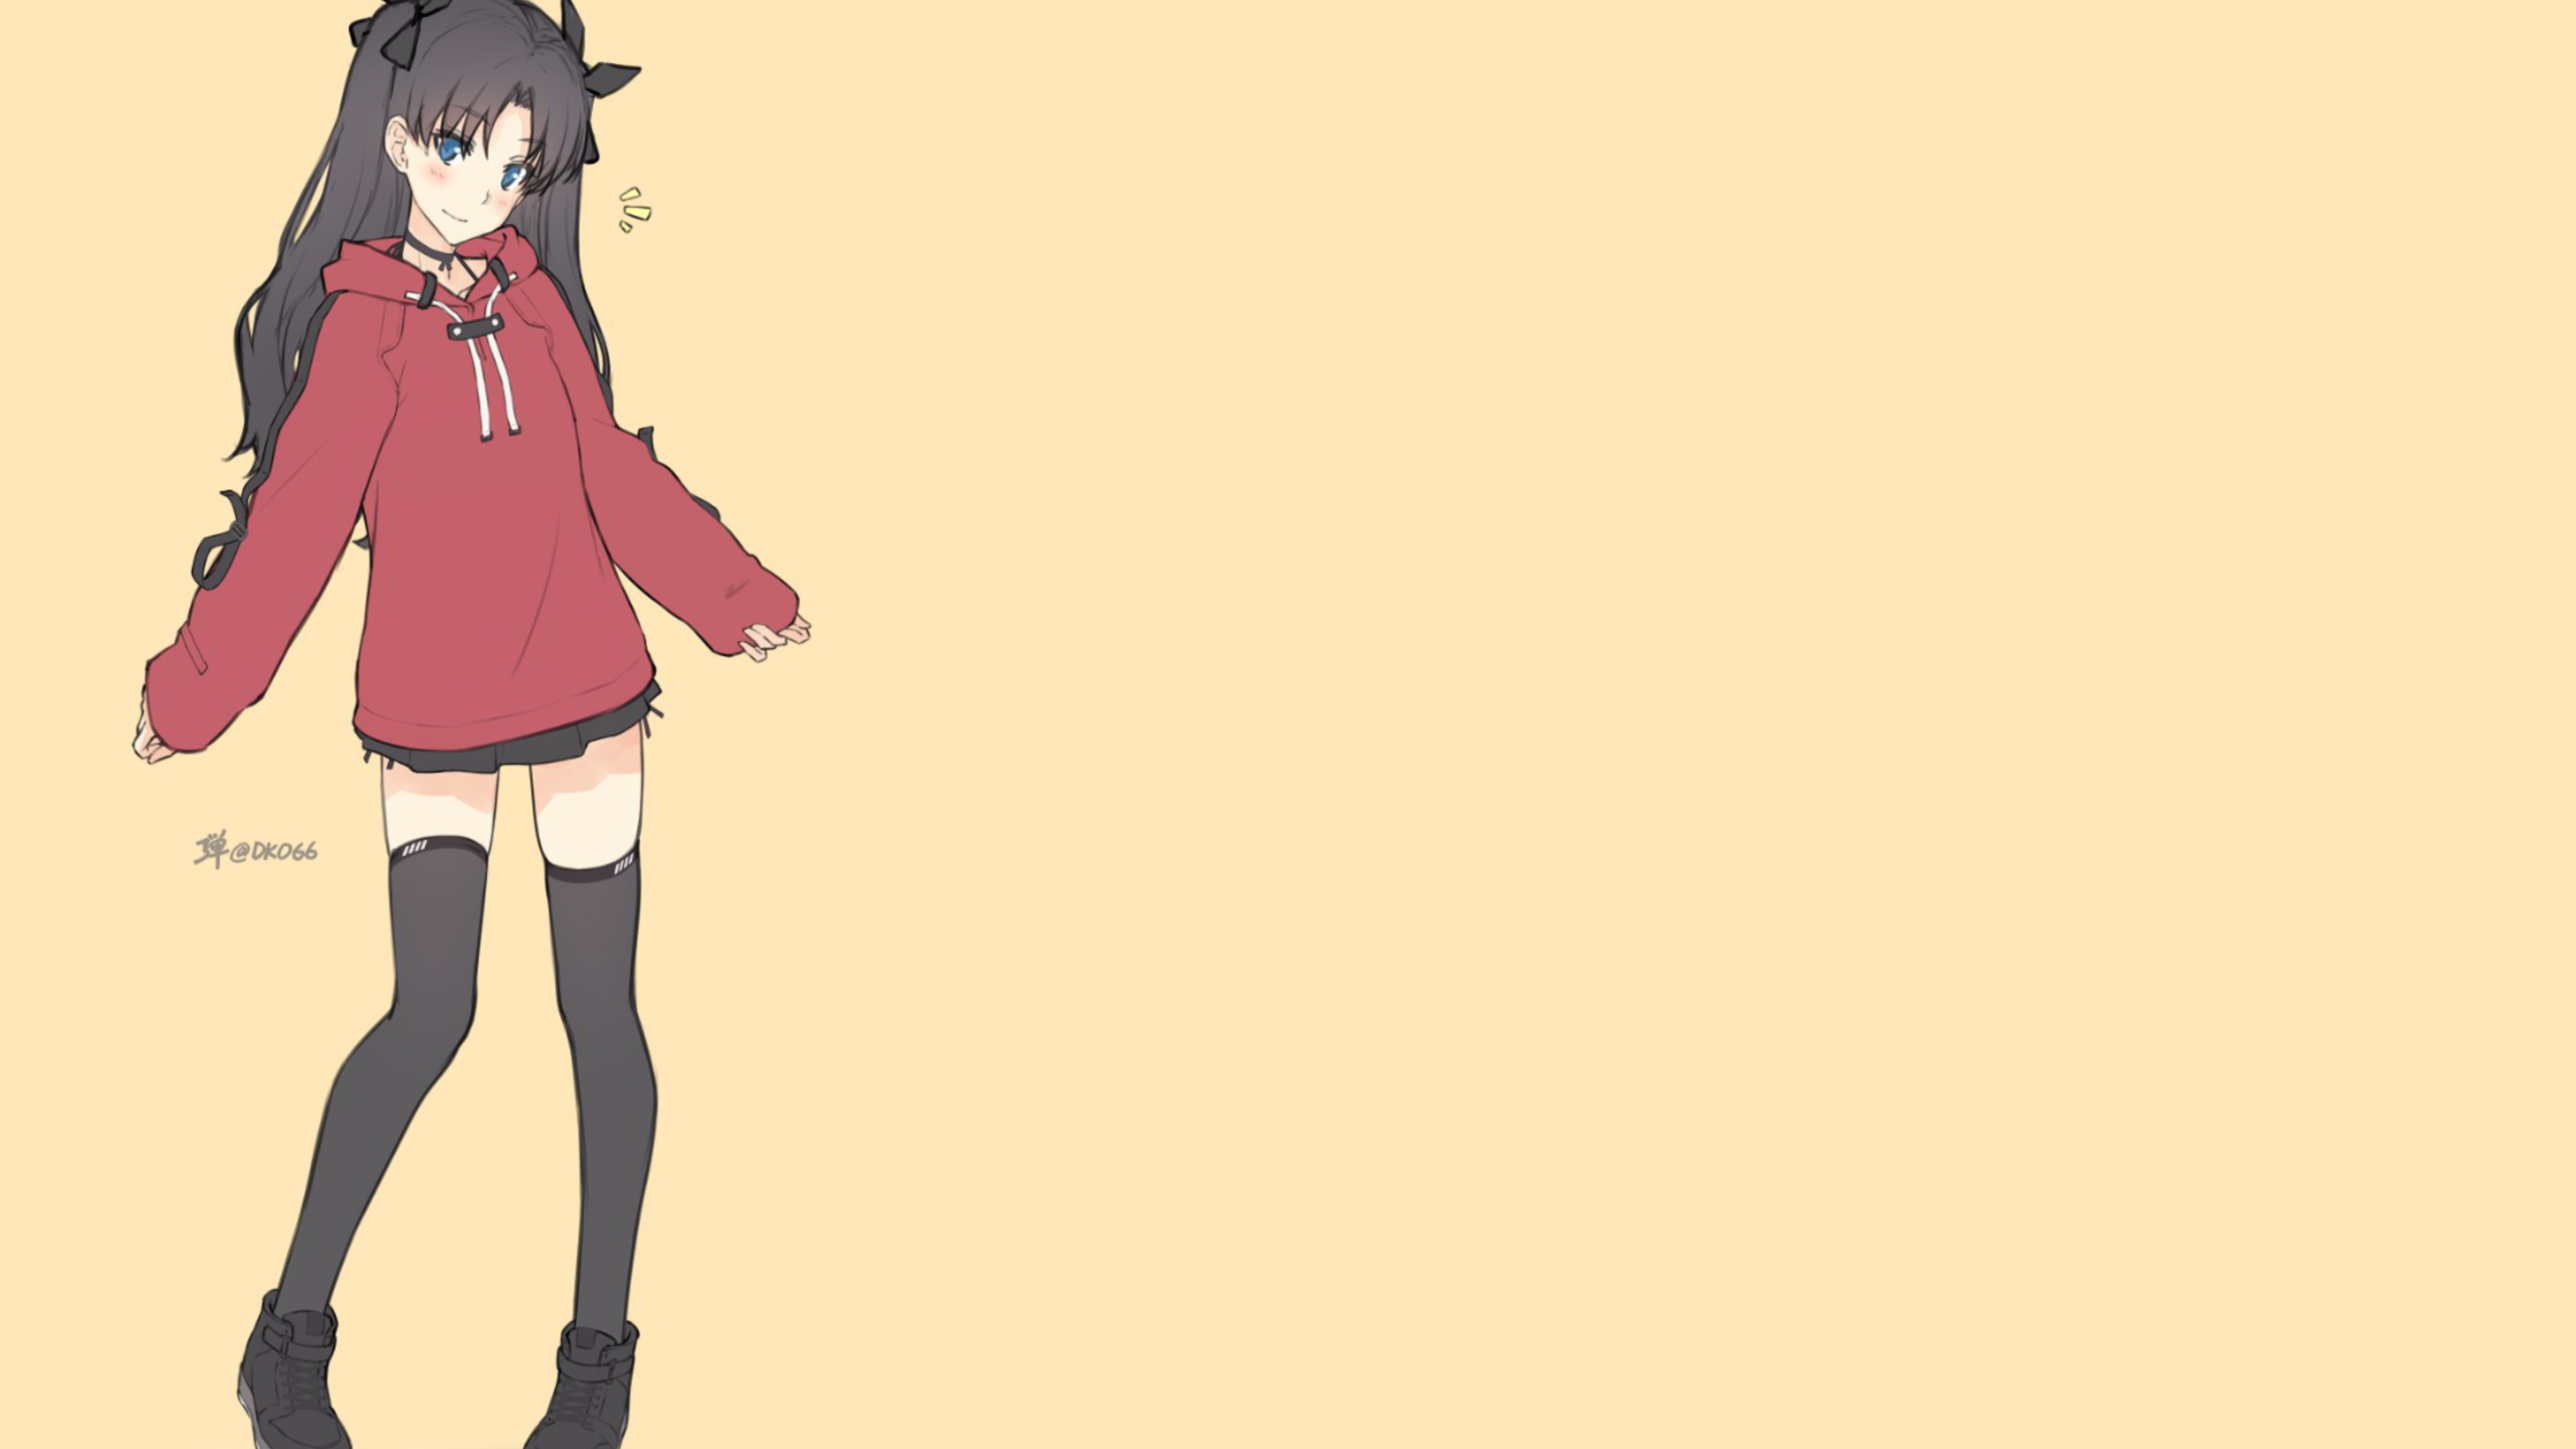
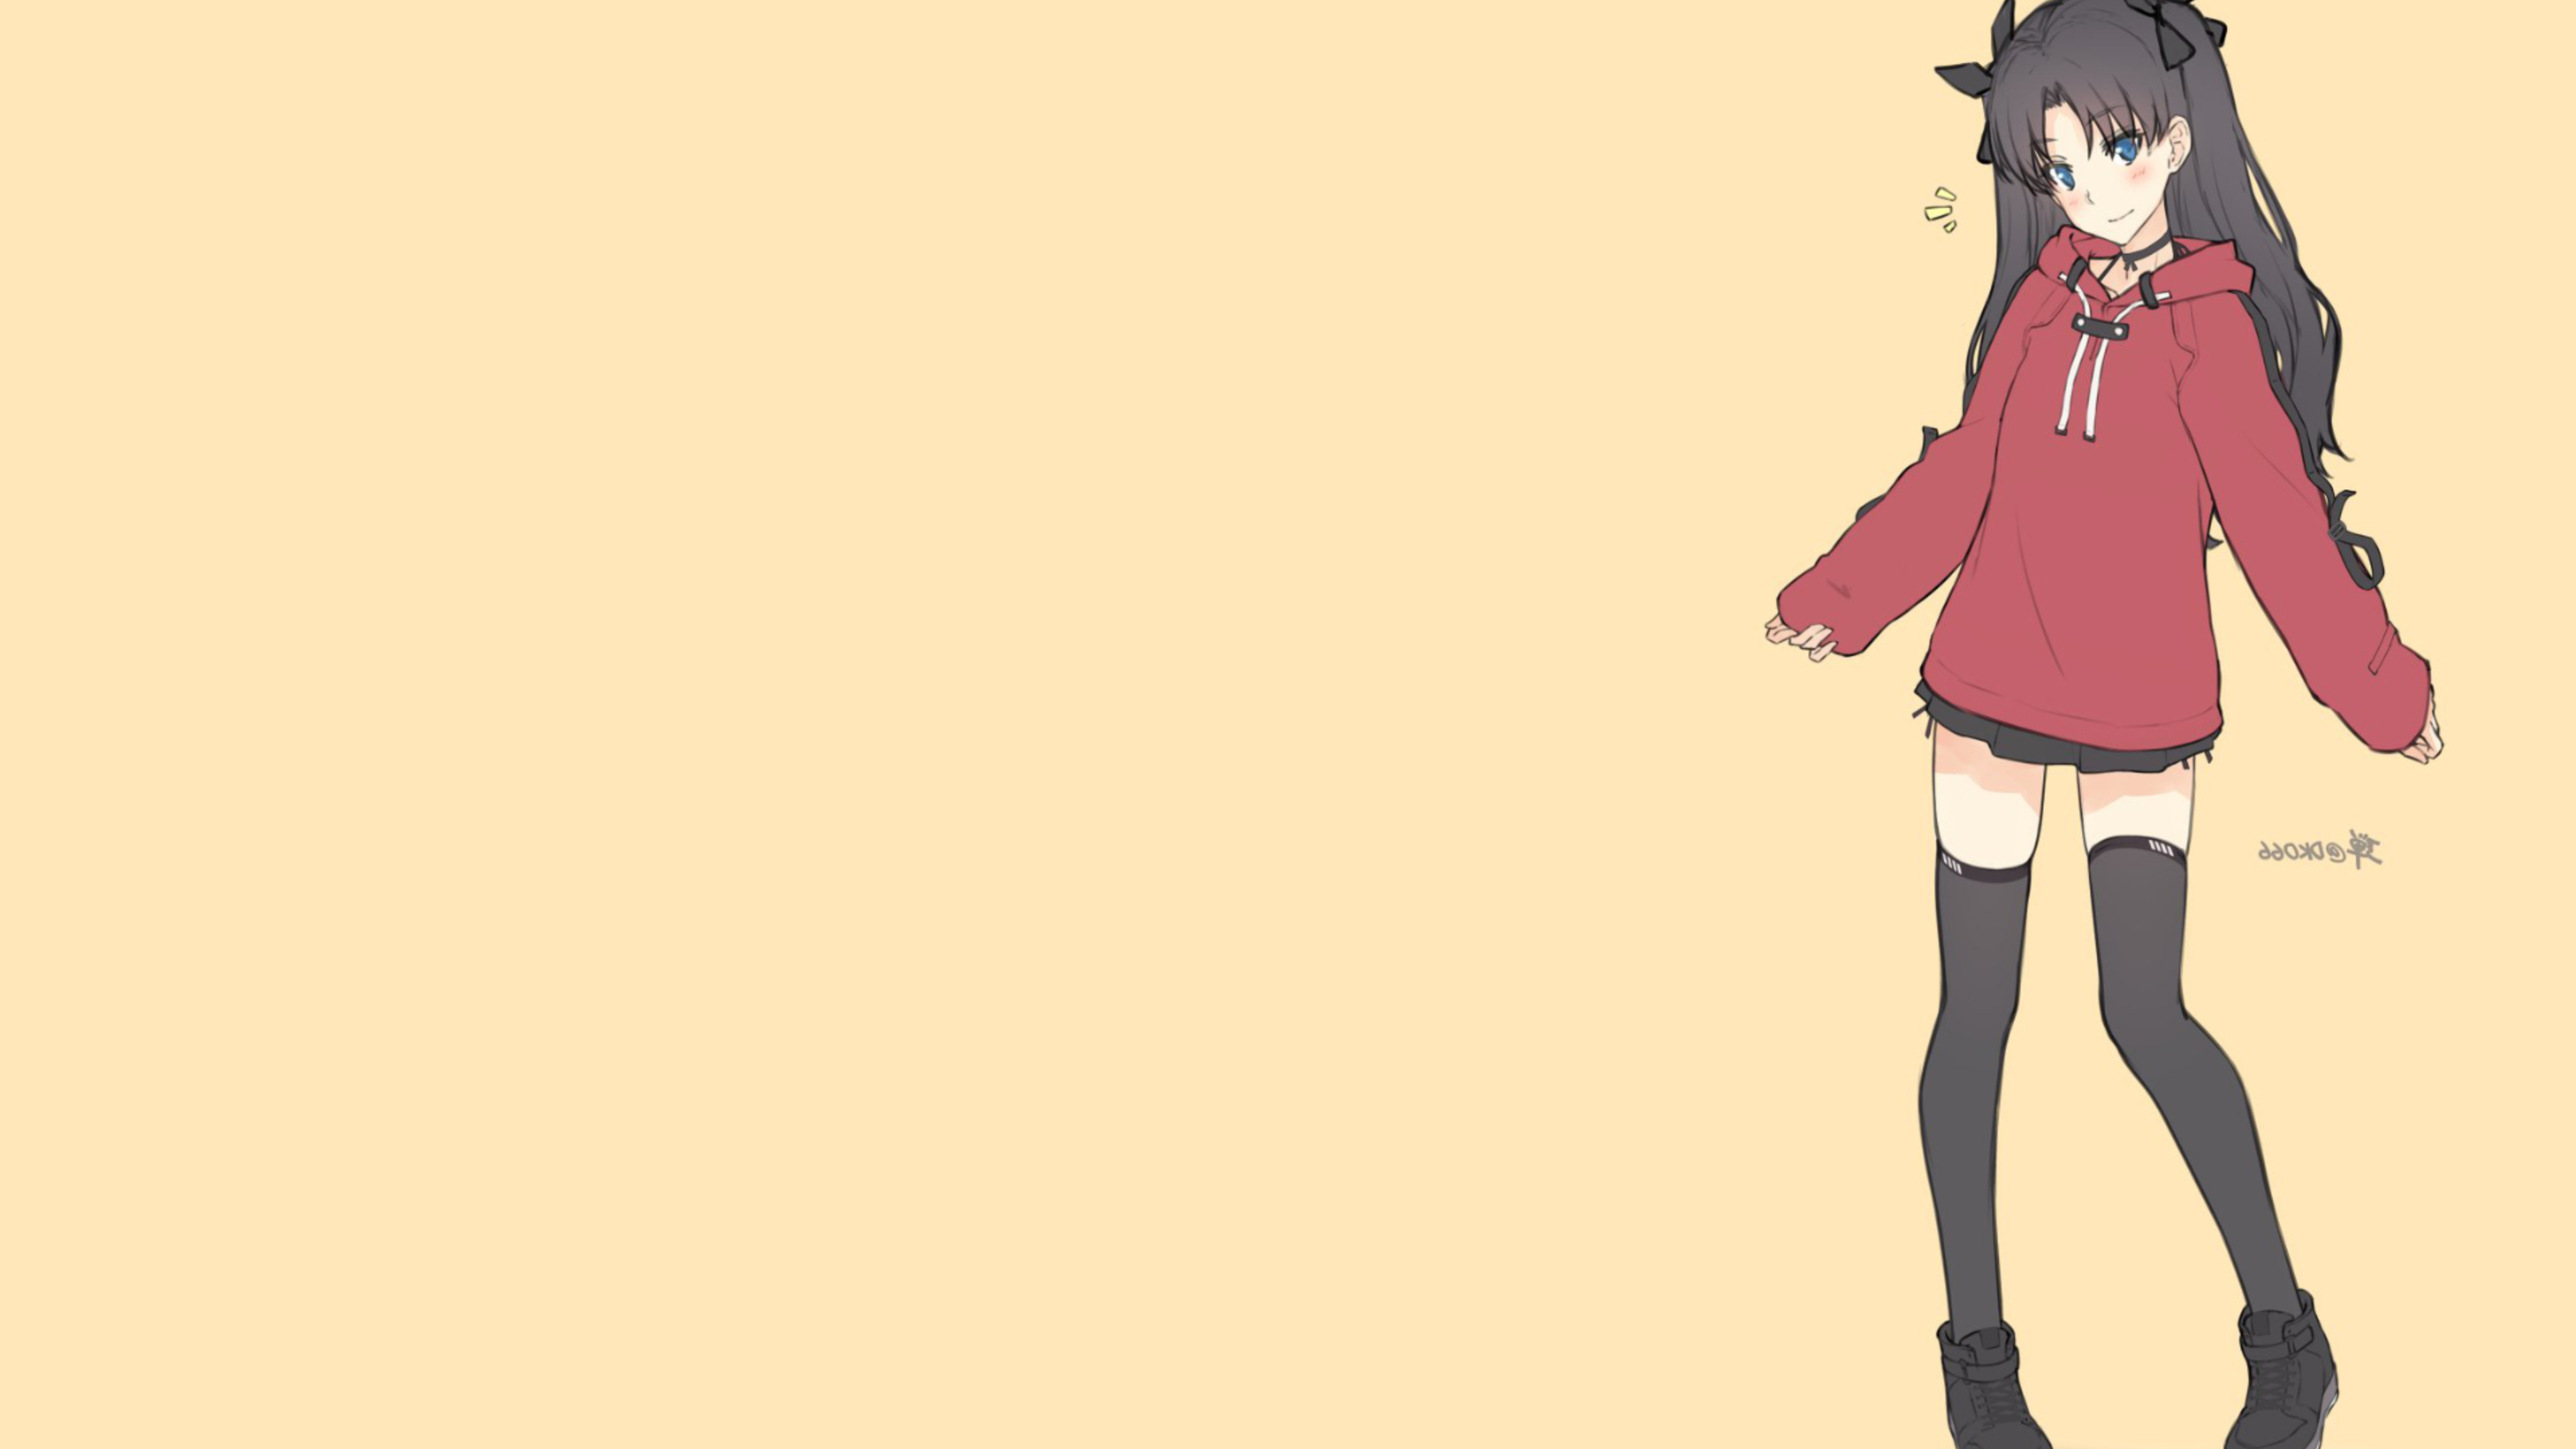
更新了下弹窗镜像图

Changed region(s): [[0.6875, 0.0, 0.9688, 1.0], [0.0312, 0.0, 0.3125, 1.0]]

diff --git a/src/components/Upload.vue b/src/components/Upload.vue
@@ -70,7 +70,7 @@
     <el-button class="ml-2" type="success" @click="btnSubmit" :loading="submitLoading">上传到服务器</el-button>
 
     <!-- 成功的弹窗 -->
-    <el-dialog v-model='mySuccess' width="50%" title="上传成功">
+    <el-dialog class="confirm" v-model='mySuccess' width="50%" title="上传成功">
         <el-form :model="successData">
             <!-- 模板内容 -->
             <el-form-item label="模板名称 : " v-if="this.uploadType == 'temp-har' || this.uploadType == 'temp-swagger'">
